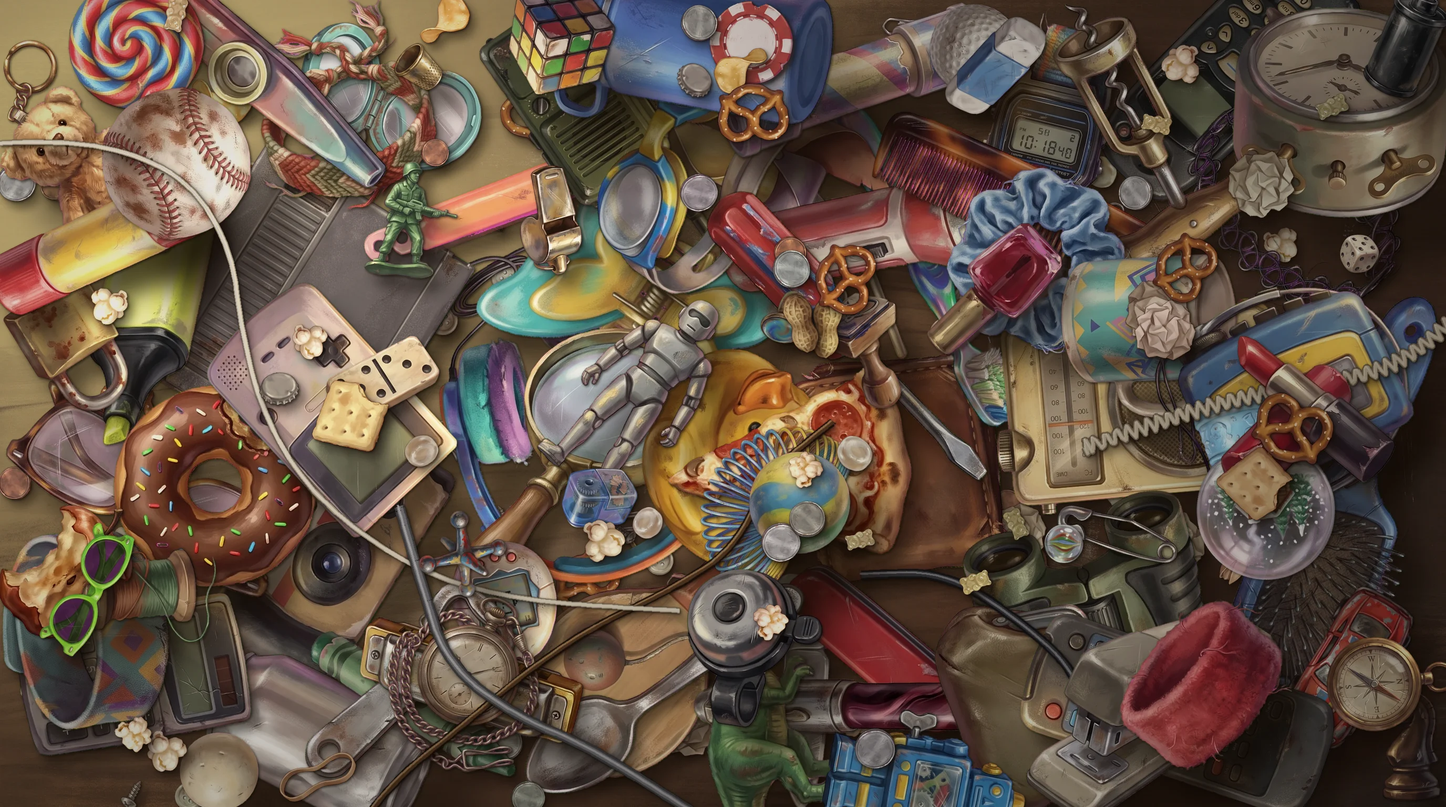
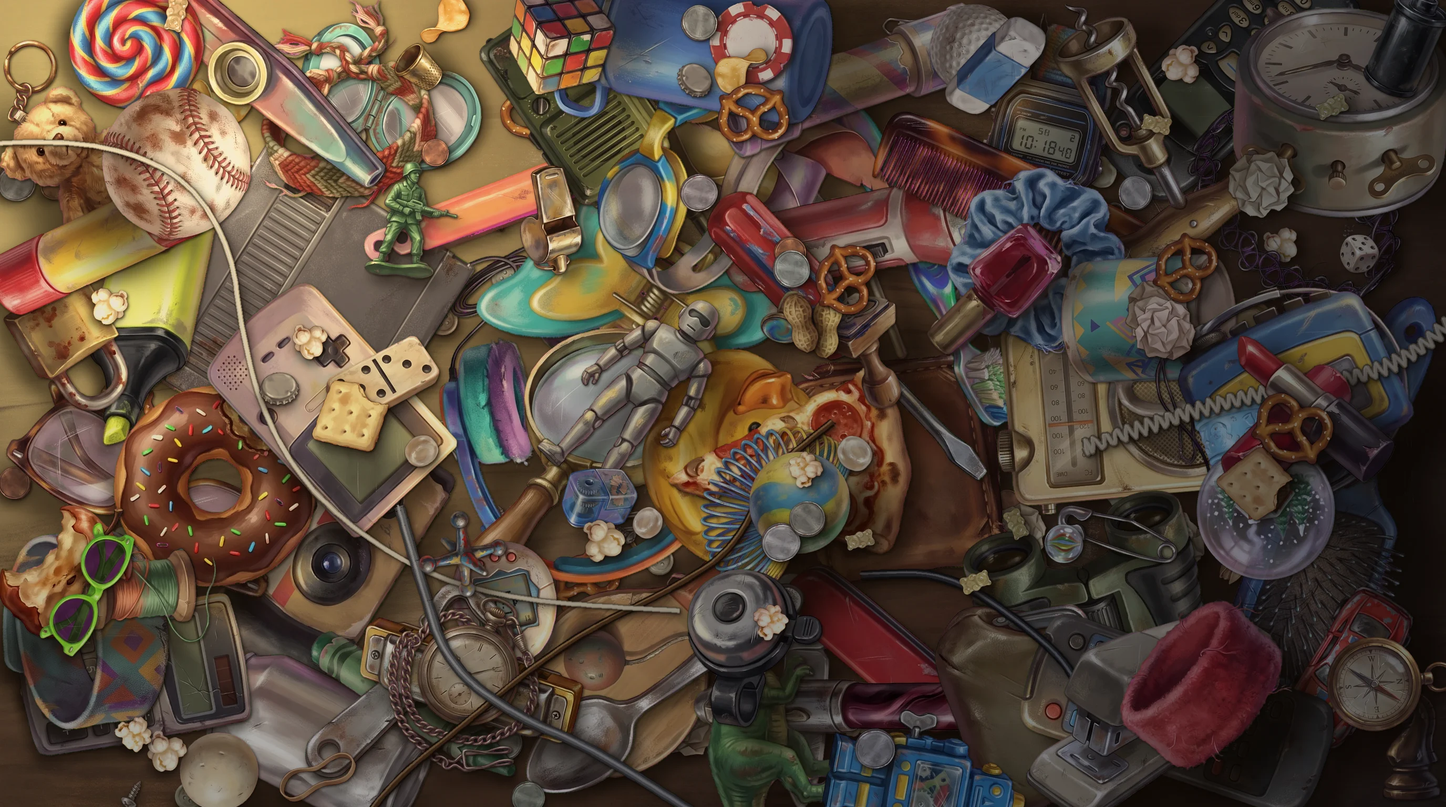
feat(arama-sahne): tek lambalı sahne ışığı
Düz aydınlatmada nesneler masadan ayrı duruyordu; masa ve nesneler aynı
ışıkla karardığında sahne bir bütün gibi görünüyor.

- diz.py --lamba x,y,en_az: ışık uzaklıkla azalır, aydınlık yer sıcak, karanlık
  yer soğuk; her nesnenin gölgesi lambadan uzağa düşer
- Ortalama parlaklığı çok düşük kalan nesne listeye girmez (EN_AZ_KOYU)
- Işık alanlar.json'da alan ayarı; otel için 0,6
- Otelin üç varyantı yeni ışıkla yeniden üretildi

diff --git a/tools/arama-sahne/havuz.py b/tools/arama-sahne/havuz.py
@@ -1,7 +1,7 @@
 # Arama sahnesi havuzunu doldurur: bir alan için farklı tohumlarla sahneler dizer ve oyuna yazar.
 # Kullanım: python havuz.py <evren>/<mekân>/<alan> [--adet 3]      yeni varyantlar üretir
 #           python havuz.py --dizin                                 yalnızca sahne listesini yeniler
-# Alanın ayarları (kanıtın yer ifadesi, yüzey görseli, yüzeyin genişliği) alanlar.json'dadır.
+# Alanın ayarları (kanıtın yer ifadesi, yüzey görseli, yüzeyin genişliği, lamba) alanlar.json'dadır.
 # Sahneler DRAFT başlar; oynanıp beğenilince dosyasında status 'READY' yapılır.
 import json
 import os
@@ -52,7 +52,7 @@ for _ in range(adet):
     tohum += 1
     print(f"--- {alan} v{tohum}", flush=True)
     subprocess.run(
-        [sys.executable, str(KOK / "diz.py"), str(tohum), str(ayar["cm"]), "--masa", ayar["masa"], "--oyun", alan, "--varyant", f"v{tohum}", "--yer", ayar["clueSpot"]],
+        [sys.executable, str(KOK / "diz.py"), str(tohum), str(ayar["cm"]), "--masa", ayar["masa"], "--oyun", alan, "--varyant", f"v{tohum}", "--yer", ayar["clueSpot"], *(["--lamba", ayar["lamba"]] if "lamba" in ayar else [])],
         check=True,
         env=ortam,
     )

diff --git a/tools/arama-sahne/README.md b/tools/arama-sahne/README.md
@@ -38,7 +38,7 @@ ayrı bir anahtar kullan.
 3. **Diz:** `python diz.py 5 80` (tohum, masa genişliği cm) → `cikti/sahne_5.webp`, kutuları gösteren
    `sahne_5_kutular.png`. Başka yüzey için `--masa <kaynak adı>`.
 4. **Havuza ekle:** alanı `alanlar.json`'a yaz (kanıtın yer ifadesi `clueSpot`, yüzey görseli `masa`, yüzey
-   genişliği `cm`), sonra `python havuz.py modern/church/static_tv --adet 3`. Her varyant için görsel
+   genişliği `cm`, ışık `lamba`: "x,y,en_az", lambanın yeri ve en karanlık yerin parlaklığı), sonra `python havuz.py modern/church/static_tv --adet 3`. Her varyant için görsel
    `frontend/public/search-scenes/<evren>/<mekân>/<alan>/v<N>.webp`, sahne kaydı ve maske
    `backend/src/search/scenes/generated/` altına yazılır, liste (`index.ts`) kendiliğinden yenilenir. Yeniden
    çalıştırınca var olan varyantlara dokunmaz, yeni tohumlarla ekler. Varyant silmek için görselini ve `.ts`
@@ -62,7 +62,7 @@ ayrı bir anahtar kullan.
 
 - `kes.py`: `SAYDAM` (camı olan nesneler yarı saydam kesilir), `TEK_PARCA` (Gemini'nin kopuk parça çizdiği
   nesnelerde en büyük parça kalır), `SAYFALAR`, `TUR` (dolgu ve örtü sayfaları).
-- `diz.py`: `ASIL_YERLER` (kanıtın saklanabileceği nesneler ve yönlendirme metni), `DOLGU_ALT`/`DOLGU_UST`/
+- `diz.py`: `EN_AZ_KOYU` (lambalı sahnede fazla karanlıkta kalan nesne listeye girmez), `ASIL_YERLER` (kanıtın saklanabileceği nesneler ve yönlendirme metni), `DOLGU_ALT`/`DOLGU_UST`/
   `KABLO`/`ORTU` (dolgu yoğunluğu), `EN_AZ_GORUNUR` (yerleşirken korunur), `SECILIR_ISIK` ve `EN_AZ_ETKIN`
   (gölgede kalan ya da çok örtülen nesne listeye girmez).
 
